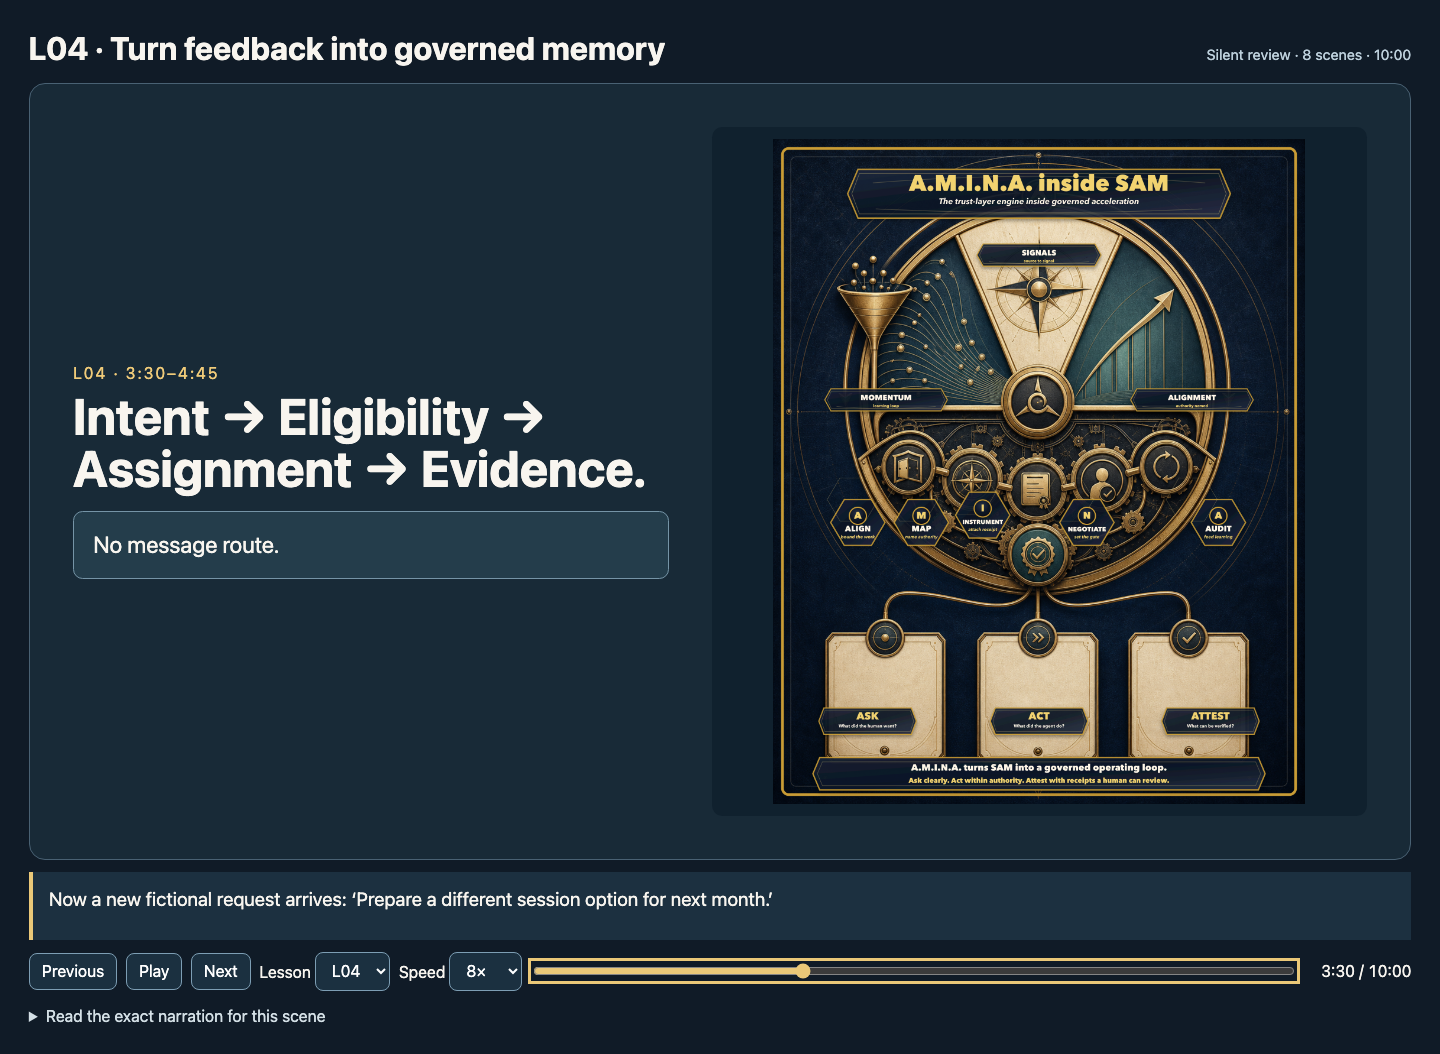
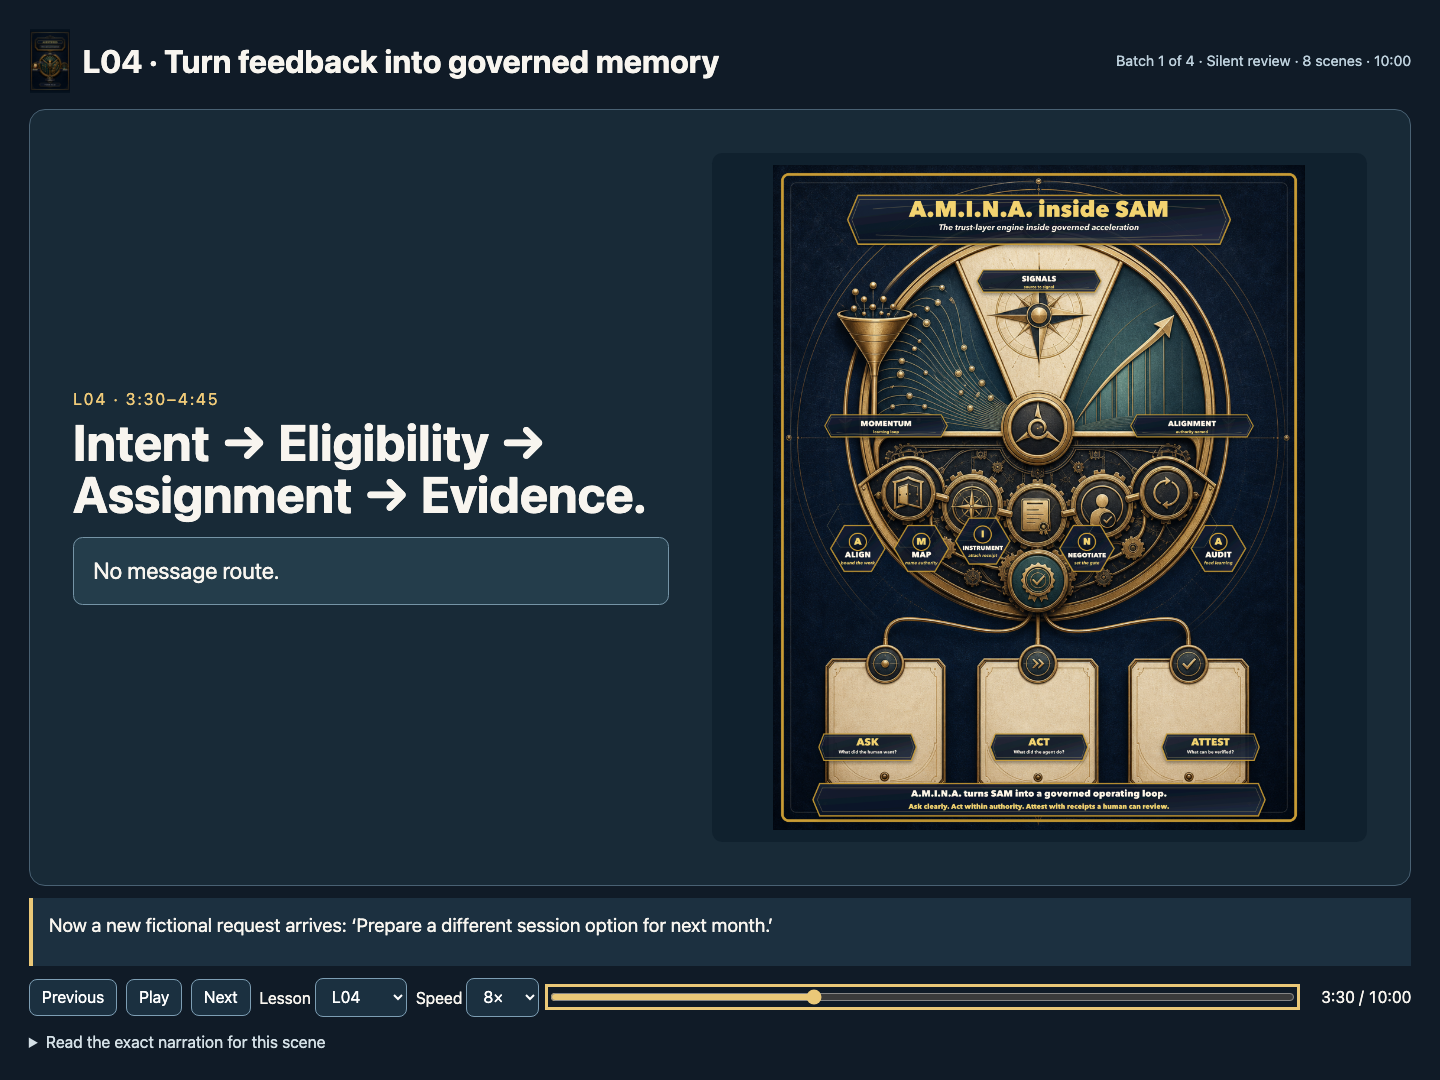
feat: bind Agentified scene packets to current source register

diff --git a/agentified/workshop/scene-production/review.html b/agentified/workshop/scene-production/review.html
@@ -7,7 +7,7 @@
   <style>
     :root{font-family:Inter,ui-sans-serif,system-ui,sans-serif;color:#f8f5ef;background:#101b27}
     *{box-sizing:border-box} body{margin:0} button,select,input{font:inherit} button,select{border:1px solid #7d9eb4;border-radius:.5rem;background:#1b3040;color:#fff;padding:.55rem .75rem;cursor:pointer} button:focus-visible,select:focus-visible,input:focus-visible{outline:3px solid #eac878;outline-offset:2px}
-    main{max-width:1500px;margin:auto;padding:clamp(.75rem,2vw,2rem)} header{display:flex;justify-content:space-between;gap:1rem;align-items:baseline;flex-wrap:wrap;margin-bottom:1rem} h1{font-size:clamp(1.3rem,2.5vw,2rem);margin:0} .meta{color:#bdd0dc;font-size:.9rem}
+    main{max-width:1500px;margin:auto;padding:clamp(.75rem,2vw,2rem)} header{display:flex;justify-content:space-between;gap:1rem;align-items:center;flex-wrap:wrap;margin-bottom:1rem}.identity{display:flex;align-items:center;gap:.75rem;min-width:0}.identity img{display:block;width:42px;height:auto;max-height:64px;object-fit:contain} h1{font-size:clamp(1.3rem,2.5vw,2rem);margin:0} .meta{color:#bdd0dc;font-size:.9rem}
     #stage{position:relative;display:grid;grid-template-columns:minmax(0,1fr) minmax(0,1.1fr);gap:clamp(1rem,3vw,3rem);width:100%;aspect-ratio:16/9;padding:clamp(1rem,3vw,3rem);background:#182a37;border:1px solid #496173;border-radius:1rem;overflow:hidden}
     .teaching{display:flex;flex-direction:column;justify-content:center;min-width:0}.eyebrow{font-size:clamp(.7rem,1.4vw,1rem);letter-spacing:.12em;text-transform:uppercase;color:#f0cb79}.stage-title{font-size:clamp(1.4rem,3.5vw,3.8rem);line-height:1.04;margin:.5rem 0 1rem;overflow-wrap:anywhere}.cards{display:grid;gap:.65rem}.card{padding:clamp(.55rem,1.35vw,1.2rem);border:1px solid #7594a6;border-radius:.6rem;background:#243d4b;font-size:clamp(.9rem,1.6vw,1.55rem);line-height:1.24;overflow-wrap:anywhere}
     .visual{display:flex;align-items:center;justify-content:center;min-width:0;min-height:0;border-radius:.65rem;background:#10212e;padding:.75rem}.visual img{display:block;width:100%;height:100%;max-height:100%;object-fit:contain;object-position:center}.visual.empty{border:1px dashed #68899c}.visual.empty span{font-size:clamp(1rem,2vw,2rem);text-align:center;color:#d9e4e7}.quiet{font-size:clamp(2rem,8vw,7rem);font-variant-numeric:tabular-nums}
@@ -20,7 +20,7 @@
 </head>
 <body>
 <main>
-  <header><h1 id="lesson-title">Agentified lesson animatic</h1><span class="meta" id="lesson-meta">Silent review · source-bound</span></header>
+  <header><div class="identity"><img id="cover" alt="Agentified book cover" hidden><h1 id="lesson-title">Agentified lesson animatic</h1></div><span class="meta" id="lesson-meta">Silent review · source-bound</span></header>
   <section id="stage" aria-label="Lesson frame">
     <div class="teaching"><span class="eyebrow" id="scene-label"></span><h2 class="stage-title" id="scene-title"></h2><div class="cards" id="cards"></div></div>
     <div class="visual empty" id="visual"></div>
@@ -39,7 +39,13 @@
   const lessonId = /^L(0[1-9]|1[0-6])$/.test(query.get('lesson') || '') ? query.get('lesson') : 'L01'
   const fmt = (seconds) => `${Math.floor(seconds / 60)}:${String(Math.floor(seconds % 60)).padStart(2, '0')}`
   let packet, time = 0, playing = false, lastTick = performance.now(), lastScene = ''
-  for (let i = 1; i <= 16; i++) { const id = `L${String(i).padStart(2, '0')}`; const option = document.createElement('option'); option.value = id; option.textContent = id; $('lesson').append(option) }
+  for (let batch = 1; batch <= 4; batch++) {
+    const group = document.createElement('optgroup')
+    const start = (batch - 1) * 4 + 1
+    group.label = `Batch ${batch} · L${String(start).padStart(2, '0')}–L${String(start + 3).padStart(2, '0')}`
+    for (let i = start; i < start + 4; i++) { const id = `L${String(i).padStart(2, '0')}`; const option = document.createElement('option'); option.value = id; option.textContent = id; group.append(option) }
+    $('lesson').append(group)
+  }
   $('lesson').value = lessonId
   $('lesson').onchange = () => { const url = new URL(location.href); url.searchParams.set('lesson', $('lesson').value); location.href = url.toString() }
   $('speed').value = '8'
@@ -75,7 +81,7 @@
   fetch(`packets/${lessonId}.json`).then((response) => { if (!response.ok) throw new Error(`Packet ${lessonId} unavailable`); return response.json() }).then(async (value) => {
     const paths = [...new Set(value.scenes.flatMap((scene) => scene.approved_visuals.map((visual) => visual.path)))]
     await Promise.all(paths.map(async (path) => { const image = new Image(); image.src = '/' + path; await image.decode() }))
-    packet = value; $('lesson-title').textContent = `${packet.id} · ${packet.title}`; $('lesson-meta').textContent = `Silent review · ${packet.scenes.length} scenes · ${fmt(packet.timing_seconds)}`; $('seek').max = packet.timing_seconds - 1; render(); requestAnimationFrame(tick)
+    packet = value; $('cover').src = '/' + packet.package_cover.path; $('cover').hidden = false; $('lesson-title').textContent = `${packet.id} · ${packet.title}`; $('lesson-meta').textContent = `Batch ${packet.batch} of 4 · Silent review · ${packet.scenes.length} scenes · ${fmt(packet.timing_seconds)}`; $('seek').max = packet.timing_seconds - 1; render(); requestAnimationFrame(tick)
   }).catch((error) => { $('lesson-title').textContent = error.message })
 </script>
 </body>

diff --git a/agentified/workshop/scene-production/README.md b/agentified/workshop/scene-production/README.md
@@ -1,6 +1,6 @@
 # Agentified scene packets and silent animatics
 
-This package turns the approved L01–L16 scripts into 128 scene records in four batches: L01–L04, L05–L08, L09–L12, and L13–L16. Each packet stores the exact narration and on-screen source cell, timing, sentence captions, shot treatment, approved plate use, reserved presenter windows, B-roll limit, audio ownership, transition, accessibility plan, chapter/workbook lineage, Operating File update, Harbor continuity, and prepare-only boundary. The canonical source files and approved visual register are unchanged.
+This package turns the approved L01–L16 scripts into 128 scene records in four batches: L01–L04, L05–L08, L09–L12, and L13–L16. Each packet stores the exact narration and on-screen source cell, timing, sentence captions, shot treatment, approved plate use, sentence-bound reserved presenter windows, B-roll limit, audio ownership, transition, accessibility plan, chapter/workbook lineage, Operating File update, Harbor continuity, and prepare-only boundary. The canonical source files and approved visual register are unchanged. All 16 packet copies are rebound only to the source-register update for the public Agentified route merged at `aa01eac9`.
 
 Run the review route from the repository root:
 
@@ -12,8 +12,8 @@ Open `http://127.0.0.1:4173/agentified/workshop/scene-production/review.html?les
 
 The caption cue text reconstructs every scene's exact narration. Its timing is provisional because no voice track exists. Presenter windows are reservations only. Audio is silent. Final spoken pacing, caption sync, scene-specific plate alternatives, contrast at delivery resolution, and customer-facing copy review remain production gates. No avatar, voice, B-roll, live application footage, or external action is represented as complete.
 
-The five approved publication plates may appear only in the lessons listed in `agentified/workshop/visual-review/packets.json`. The canonical JPG cover is approved as a cover but is absent from these scene uses. The inherited Accelerated SAM image remains lineage-only and is excluded from media. No new illustration is generated.
+The five approved publication plates may appear only in the lessons listed in `agentified/workshop/visual-review/packets.json`. The canonical JPG cover is bound to each production packet as package identity and appears in the review header at its natural portrait ratio; it is not a scene plate. The rejected SVG cover is excluded. The inherited Accelerated SAM image remains lineage-only and is excluded from media. No new illustration is generated.
 
-Rebuild each bounded batch with `node agentified/workshop/scene-production/build.mjs L01-L04` (or the other three batch labels). Run `node agentified/workshop/scene-production/validate.mjs`, `node --test agentified/workshop/scene-production/validate.test.mjs`, and `NODE_PATH=<Playwright module directory> node agentified/workshop/scene-production/qa-review.mjs <localhost-route> <commit>`. The last command checks seven beats per lesson at desktop, tablet, and mobile widths, including image load, containment, and overflow. `record-walkthrough.mjs <commit>` creates a silent H.264 MP4 and verifies duration, codec, and size. Playwright can also resolve from project `node_modules` after dependencies are installed.
+Rebuild each bounded batch with `node agentified/workshop/scene-production/build.mjs L01-L04` (or the other three batch labels). Run `node agentified/workshop/scene-production/validate.mjs`, `node --test agentified/workshop/scene-production/validate.test.mjs`, and `NODE_PATH=<Playwright module directory> node agentified/workshop/scene-production/qa-review.mjs <localhost-route> <commit>`. The last command checks seven beats per lesson at desktop, tablet, and mobile widths, including cover and plate load, aspect ratio, content separation, containment, and overflow. `record-walkthrough.mjs <commit> L01-L04 <localhost-route>` creates a silent H.264 MP4 for one four-lesson batch and verifies duration, codec, and size. Playwright can also resolve from project `node_modules` after dependencies are installed.
 
-This is an internal production review package. It does not authorize provider rendering, publication, uploads, member access, or a live course route. The next gate is captain review of the packets and responsive animatics, followed by editorial resolution of any customer-facing script language and approval of final audio, captions, and scene-specific accessibility treatment. Human QA applies when a later client-facing course experience is ready.
+This is an internal production review package. It does not authorize provider rendering, publication, uploads, member access, or a live course route. [Customer-facing copy review](customer-copy-review.md) records an editorial hold on sample-case language and raw evidence IDs in the approved scripts. The next gate is captain review of the packets and responsive animatics, followed by approved editorial resolution, final audio and caption review, and scene-specific accessibility treatment. Human QA applies when a later client-facing course experience is ready.

diff --git a/agentified/workshop/scene-production/customer-copy-review.md b/agentified/workshop/scene-production/customer-copy-review.md
@@ -1,0 +1,16 @@
+# Customer-facing copy review hold
+
+The 16 scene packets preserve the approved script wording exactly. This internal animatic is a production review surface. It is not a customer-ready lesson or a final spoken-copy approval.
+
+## Findings
+
+- **L01-01:** the on-screen line “Fictional case: Harbor Learning Circle” is a sample-case disclosure inside the teaching frame. The opening narration also repeats “made-up” as a production qualification. Keep the case boundary in the protected review record or a deliberate audience disclosure treatment before release.
+- **L08-03, L10-03, L11-02, L14-02:** narration contains raw `SYN-` evidence IDs. The script pronunciation notes sometimes call for natural speech, but the exact text captions still expose the IDs. Final audio and captions need one approved wording and a fresh exact binding.
+- **Across L01–L16:** repeated “invented,” “sample,” “mock,” “synthetic,” and “fictional” phrases require an editorial pass as customer-facing speech. Some may be essential to establish that Harbor is an illustrative case; others read like production notes. Decide sentence by sentence before voice or avatar work.
+- **L08-05 and L14-05:** on-screen copy refers to production proof or claims. Confirm these are teaching points rather than internal status language before release.
+
+## Disposition
+
+Production packet review may continue with the approved source text. Customer-facing audio, captions, and final teaching frames remain **held**. A script owner must approve any revised narration or on-screen wording, then regenerate packets and captions from that newly approved source. This lane does not silently rewrite the canonical scripts. The final composite transcript and rendered MP4 need a fresh copy audit before Human QA.
+
+The storyboard walkthrough contains only public or synthetic teaching material. It has no live account, private source, provider call, voice, avatar, or customer-data footage. Internal route labels, commit binding, and provenance stay in the review shell and packet records, outside the lesson frame.
